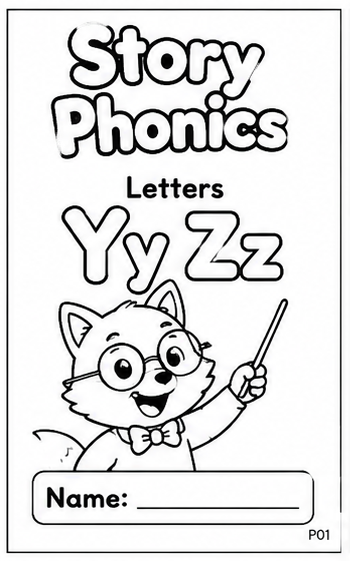
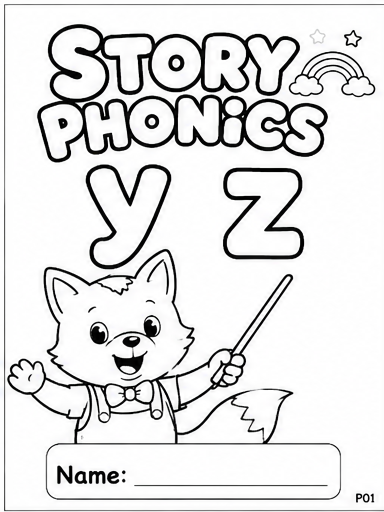
Add files via upload

Changed region(s): [[0.0, 0.0, 1.0, 1.0], [0.2, 0.4062, 0.2286, 0.4375]]

diff --git a/yz/index.html b/yz/index.html
@@ -1,4 +1,18 @@
-<!DOCTYPE html><html><head><meta charset="UTF-8"><meta name="viewport" content="width=device-width,initial-scale=1"><title>YZ</title><style>body{font-family:Arial,sans-serif;max-width:800px;margin:auto;padding:20px}img{max-width:100%;height:auto}pre{white-space:pre-wrap;font-size:1.1em}</style></head><body><h1>YZ</h1><img src="cover.png" alt="cover"><audio controls style="width:100%"><source src="yzchant.mp3" type="audio/mpeg"></audio><pre>Hello, hello!
+<!DOCTYPE html>
+<html><head><meta charset="UTF-8"><meta name="viewport" content="width=device-width,initial-scale=1">
+<link href="https://fonts.googleapis.com/css2?family=Fredoka:wght@700&display=swap" rel="stylesheet">
+<style>
+body{font-family:'Fredoka',sans-serif;background:#fff;margin:0;display:flex;justify-content:center}
+.container{max-width:700px;padding:20px;text-align:center}
+h1{font-size:40px}
+img{max-width:100%;height:auto;border-radius:12px}
+audio{width:100%;margin:20px 0}
+pre{white-space:pre-wrap;font-family:'Fredoka',sans-serif;font-size:22px;line-height:1.8;color:#000;font-weight:700}
+</style></head><body><div class="container">
+<h1>YZ</h1>
+<img src="cover.png" alt="cover">
+<audio controls src="yzchant.mp3"></audio>
+<pre>Hello, hello!
 Let's learn today!
 
 Y for Yo-yo!
@@ -17,4 +31,5 @@ V! W! X! Y! Z!
 
 Great job!
 Story Phonics!
-See you soon!</pre></body></html>
+See you soon!</pre>
+</div></body></html>
